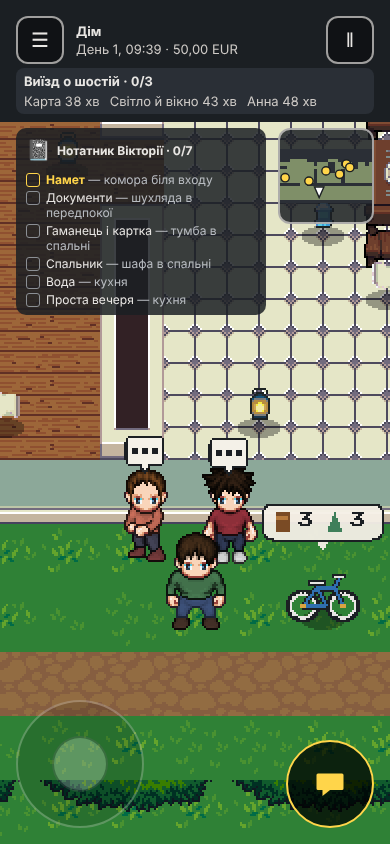
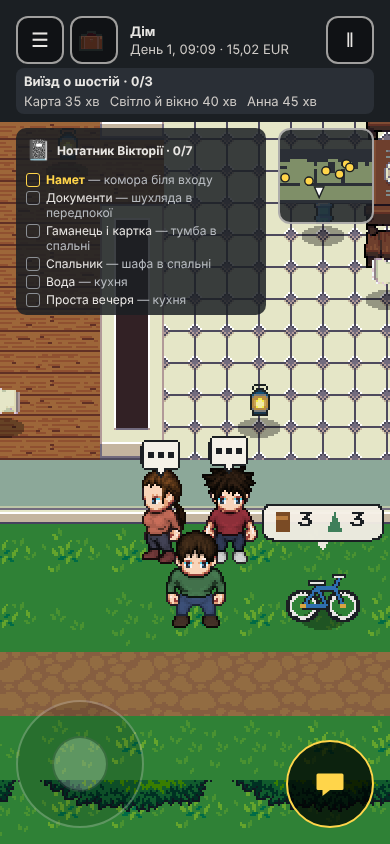
GAME-244 (ч.1): шапка — ☰ і рюкзак в одній клітинці (крупний текст — стовпчиком), тести ☰/дотик-цілей, ключі i18n
Claude-Session: https://claude.ai/code/session_01RoJJJhaZjeur2b1tUo6iMd

diff --git a/index.html b/index.html
@@ -37,7 +37,7 @@
       /* GAME-96: полотно покриває поле (кадр = ⌈поле / zoom⌉), зайве < zoom px з правого і нижнього краю ховаємо. */
       #stage { position: relative; flex: 1 1 0; min-height: 0; overflow: hidden; }
       /* Шапка (GAME-92): сітка ☰ | текст | ‖. Текст зліва, рядки на одній лівій межі, однаковий інтервал. */
-      .ui-header { order: -1; flex: none; position: relative; display: grid; grid-template-columns: auto minmax(0, 1fr) auto auto; align-items: start; column-gap: var(--gap-inline);
+      .ui-header { order: -1; flex: none; position: relative; display: grid; grid-template-columns: auto minmax(0, 1fr) auto; align-items: start; column-gap: var(--gap-inline);
         box-sizing: border-box; padding: var(--edge-top) var(--edge-right) var(--gap-header-bottom) var(--edge-left); background: #1b1f23; }
       .ui-hud { position: relative; min-width: 0; min-height: var(--header-btn); display: flex; flex-direction: column; justify-content: flex-start; align-items: flex-start; text-align: left;
         /* Два рядки (місце, «день · гроші») стоять посередині висоти кнопки ☰; відступ зверху — той самий із підказкою й без: рядки не стрибають. */
@@ -151,6 +151,10 @@
       .touch-interact[data-state="idle"] { opacity: 0.45; }
       .touch-interact[data-state="ready"] { opacity: 1; border-color: #ffd54a; background: #000000bb; color: #ffd54a; }
       .touch-stick[hidden], .touch-interact[hidden] { display: none; }
+      /* GAME-244 · ☰ і рюкзак в одній клітинці сітки шапки: стовпчиком (портрет), рядком (вбік) — колонок у шапці не додається. */
+      .ui-header-left { display: flex; flex-direction: row; gap: 6px; }
+      /* Крупний текст: слово «08:00» у HUD ~160 px — ширини ще на кнопку немає, тож рюкзак стає під ☰ (висота при 200 % не критична). */
+      :root[data-text-scale="150"] .ui-header-left, :root[data-text-scale="200"] .ui-header-left { flex-direction: column; }
       .ui-pause-btn, .ui-story-btn, .ui-bag-btn { flex: none; min-width: var(--header-btn); min-height: var(--header-btn); border-radius: 12px;
         border: 2px solid #e8e6e3aa; background: #00000066; color: #e8e6e3; font-size: 1.25rem; padding: 0; }
       /* safe center (GAME-39): діалог, вищий за екран (титри, текст 200 %), притискається до верху, а не
@@ -290,20 +294,19 @@
       }
       @media (orientation: landscape) {
         .ui-header { position: absolute; top: 0; left: 0; right: 0; z-index: 2; background: transparent; pointer-events: none; padding-bottom: 0;
-          grid-template-columns: auto minmax(0, 1fr) auto auto auto; row-gap: 8px; column-gap: 8px; }
+          grid-template-columns: auto minmax(0, 1fr) auto auto; row-gap: 8px; column-gap: 8px; }
         .ui-header button { pointer-events: auto; }
         /* GAME-94: рядок нагадування лежить усередині шапки — без цього поле з кодом (запас) не можна було б торкнутися. */
         /* GAME-181: шапка вбік стала вищою (ціль + «Далі» — ряди сітки), тож рядок нагадування лежить нижче й міг накрити місце, де гравець кладе палець на джойстик (game-170-slice3). Сам рядок дотику не ловить — лише кнопки й поле коду. */
         .ui-reminder { pointer-events: none; }
         .ui-reminder button, .ui-reminder textarea { pointer-events: auto; }
-        .ui-story-btn { grid-area: 1 / 1; }
         .ui-hud { grid-area: 1 / 3; align-self: center; align-items: flex-end; text-align: right; min-height: 0; padding: 4px 10px; border-radius: 8px; background: #1b1f23d9; }
         /* Назву місця сховано лише з екрана — скрінрідер її читає (рецензія PR #53). */
         .ui-hud [data-ui="hud-place"] { position: absolute; width: 1px; height: 1px; overflow: hidden; clip-path: inset(50%); white-space: nowrap; }
         /* Рамка притиснута до правого краю, тож ширина тексту двигала б її лівий край щохвилини: цифри однакової ширини (tabular-nums) цього не дозволяють. */
         .ui-hud-line { white-space: nowrap; font-variant-numeric: tabular-nums; }
-        .ui-bag-btn { grid-area: 1 / 4; }
-        .ui-pause-btn { grid-area: 1 / 5; justify-self: end; }
+        .ui-header-left, :root[data-text-scale] .ui-header-left { grid-area: 1 / 1; flex-direction: row; }
+        .ui-pause-btn { grid-area: 1 / 4; justify-self: end; }
         .ui-story-btn, .ui-pause-btn, .ui-bag-btn { background: #000000aa; }
         /* Тост-підказка — ліворуч від рамки. */
         .ui-toast { left: auto; right: calc(100% + 8px); top: 0; width: max-content; max-width: 40vw; padding: 4px 8px; border-radius: 8px; }

diff --git a/src/ui/Shell.tsx b/src/ui/Shell.tsx
@@ -278,6 +278,7 @@ export function Shell({ port, langOverride, credits, build, holdToast = false, h
   // До малювання (useLayoutEffect): екранний читач не застає кнопки без підпису (рецензія).
   useLayoutEffect(() => {
     document.documentElement.style.fontSize = `${settings.textScale}%`;
+    document.documentElement.dataset.textScale = String(settings.textScale);   // GAME-244: CSS шапки (☰ + рюкзак) знає про крупний текст
     document.documentElement.lang = settings.language;
     document.getElementById('stage')?.setAttribute('aria-label', t('ui.stage'));
     // Дотикові кнопки сцени (src/view/world/touch.ts) — підписи мовою гравця, а не id дії англійською.
@@ -366,7 +367,10 @@ export function Shell({ port, langOverride, credits, build, holdToast = false, h
           ніколи не лежать на тексті, при 200 % текст переноситься в середній колонці. Під діалогом шапки немає: дані HUD є
           в самому діалозі, а схована смуга під ним збивала вимірювання контрасту (axe). */}
       {!paused && !storyOpen && !talk && !summary && !intro && !atlasOpen && !backpackOpen && <header class="ui-header">
+        <div class="ui-header-left">
         <button type="button" class="ui-story-btn" data-hint={showHint || offer.stage === 'ended' ? 'yes' : undefined} data-touch="story" aria-label={t('ui.story')} onClick={() => story(true)}>{'☰'}</button>
+        <button type="button" class="ui-bag-btn" data-touch="backpack" data-ui="backpack-open" aria-label={t('backpack.open')} onClick={() => openBackpack(false)}><ObjectiveIcon spot="obj.trunk" /></button>
+        </div>
         <div class="ui-hud" data-ui="hud" role="group" aria-label={t('ui.hud')}>
           <span data-ui="hud-place">{offer.locationKey ? ct(lang, offer.locationKey) : t('ui.noPlace')}</span>
           <span class="ui-hud-line"><span data-ui="hud-time">{`${t('ui.day')} ${offer.day}, ${hh}:${mm}`}</span>{' · '}<span data-ui="hud-money">{money(lang, offer.moneyCents)}</span></span>
@@ -375,7 +379,6 @@ export function Shell({ port, langOverride, credits, build, holdToast = false, h
           {/* GAME-89 №6: кампанія завершена — мапа лишається живою (можна ходити), але про кінець видно й поза ☰. */}
           {offer.stage === 'ended' && <span class="ui-hint" data-ui="ended-hint" role="status">{t('ui.endedHint')}</span>}
         </div>
-        <button type="button" class="ui-bag-btn" data-touch="backpack" data-ui="backpack-open" aria-label={t('backpack.open')} onClick={() => openBackpack(false)}><ObjectiveIcon spot="obj.trunk" /></button>
         <button type="button" class="ui-pause-btn" data-touch="pause" aria-label={t('ui.pause')} onClick={() => toggle(true)}>{'‖'}</button>
         {/* GAME-170 зріз 2: картка поточної мети — жива хвиля напруги: «назва · зроблено/усього» і хвилини ІГРОВОГО часу на кожну справу
             (з годинника ядра: пауза й панелі його зупиняють — і числа стоять). Окремий ряд сітки під ☰ · HUD · ‖, тож кнопок не торкається. */}

diff --git a/tests/e2e/game-185.spec.ts b/tests/e2e/game-185.spec.ts
@@ -47,14 +47,14 @@ for (const v of VIEWS) {
   test.describe(`${v.side} ${v.w}×${v.h}`, () => {
     test.use({ viewport: { width: v.w, height: v.h }, hasTouch: true, isMobile: true });
 
-    test('☰ у мапі-першій: лише Атлас, Журнал, налаштування й закрити; журнал — окремий екран із квестами, навичками й речами', async ({ page }) => {
+    test('☰ у мапі-першій: лише Рюкзак, Атлас, Журнал, налаштування й закрити; журнал — окремий екран із квестами, навичками й речами', async ({ page }) => {
       test.setTimeout(240_000);
       const errors = await arriveInShop(page);
       await page.locator('[data-touch="story"]').click();
       await expect(panel(page)).toBeVisible();
-      // Меню: рівно чотири кнопки; жодної дії сюжету, жодного списку.
-      await expect(panel(page).locator('button')).toHaveCount(4);
-      for (const ui of ['atlas-open', 'journal', 'settings-open', 'story-close']) await expect(panel(page).locator(`[data-ui="${ui}"]`), ui).toBeVisible();
+      // Меню: рівно п'ять кнопок (GAME-244: додано «Рюкзак»); жодної дії сюжету, жодного списку.
+      await expect(panel(page).locator('button')).toHaveCount(5);
+      for (const ui of ['atlas-open', 'backpack-open-story', 'journal', 'settings-open', 'story-close']) await expect(panel(page).locator(`[data-ui="${ui}"]`), ui).toBeVisible();
       for (const ui of ['quest', 'skills', 'inventory', 'actions', 'packing', 'journal-log']) await expect(panel(page).locator(`[data-ui="${ui}"]`), `у меню є «${ui}»`).toHaveCount(0);
       await expect(panel(page).locator('[data-act]'), 'у меню немає кнопок дій').toHaveCount(0);
       await page.screenshot({ path: `research/visual-audit/menu-mapfirst-${v.side}.png` });

diff --git a/tests/e2e/world.spec.ts b/tests/e2e/world.spec.ts
@@ -232,7 +232,7 @@ for (const vp of VIEWPORTS) {
       await open(page);
       const boxes = await page.locator('[data-touch]').evaluateAll((els) =>
         els.map((e) => { const r = e.getBoundingClientRect(); return { a: (e as HTMLElement).dataset.touch, w: r.width, h: r.height }; }));
-      expect(boxes.map((b) => b.a).sort()).toEqual(['interact', 'pause', 'stick', 'story']); // джойстик + дія сцени, пауза й «Подорож» оболонки UI
+      expect(boxes.map((b) => b.a).sort()).toEqual(['backpack', 'interact', 'pause', 'stick', 'story']); // джойстик + дія сцени, пауза, «Подорож» і «Рюкзак» (GAME-244) оболонки UI; кожна ≥ 44×44 — перевірка нижче
       for (const b of boxes) { expect(b.w, b.a).toBeGreaterThanOrEqual(44); expect(b.h, b.a).toBeGreaterThanOrEqual(44); }
     });
 
